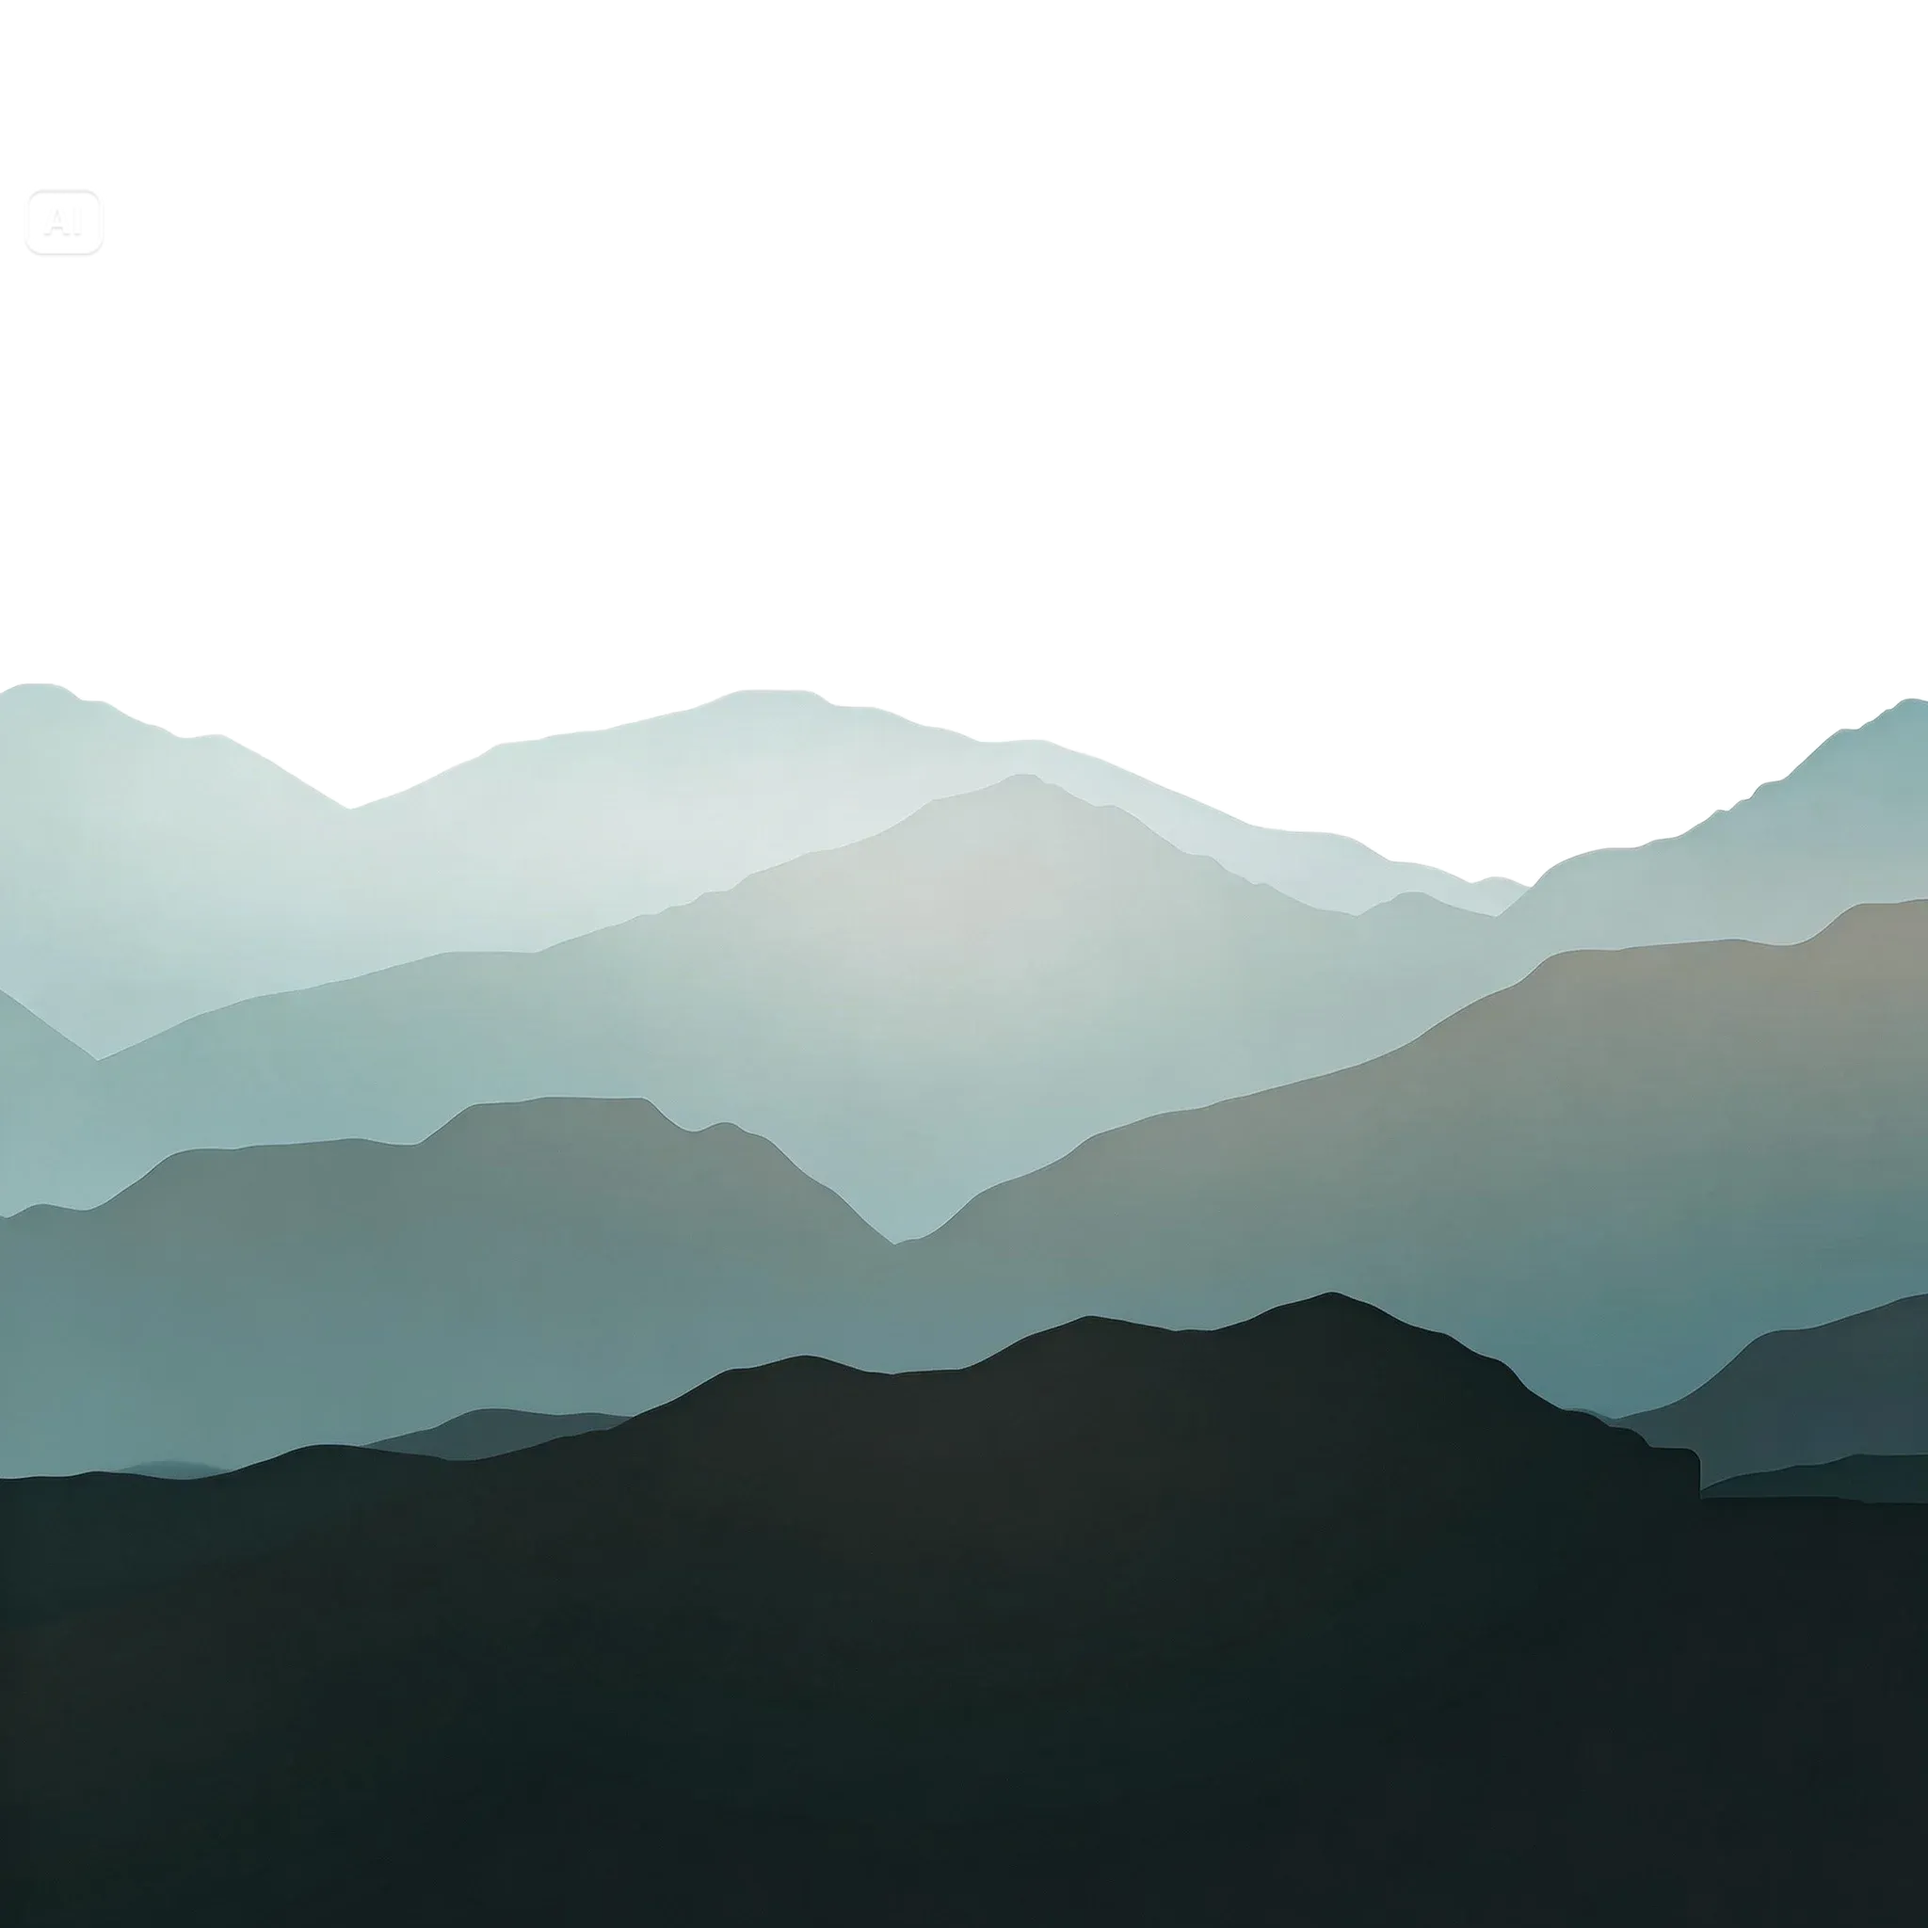
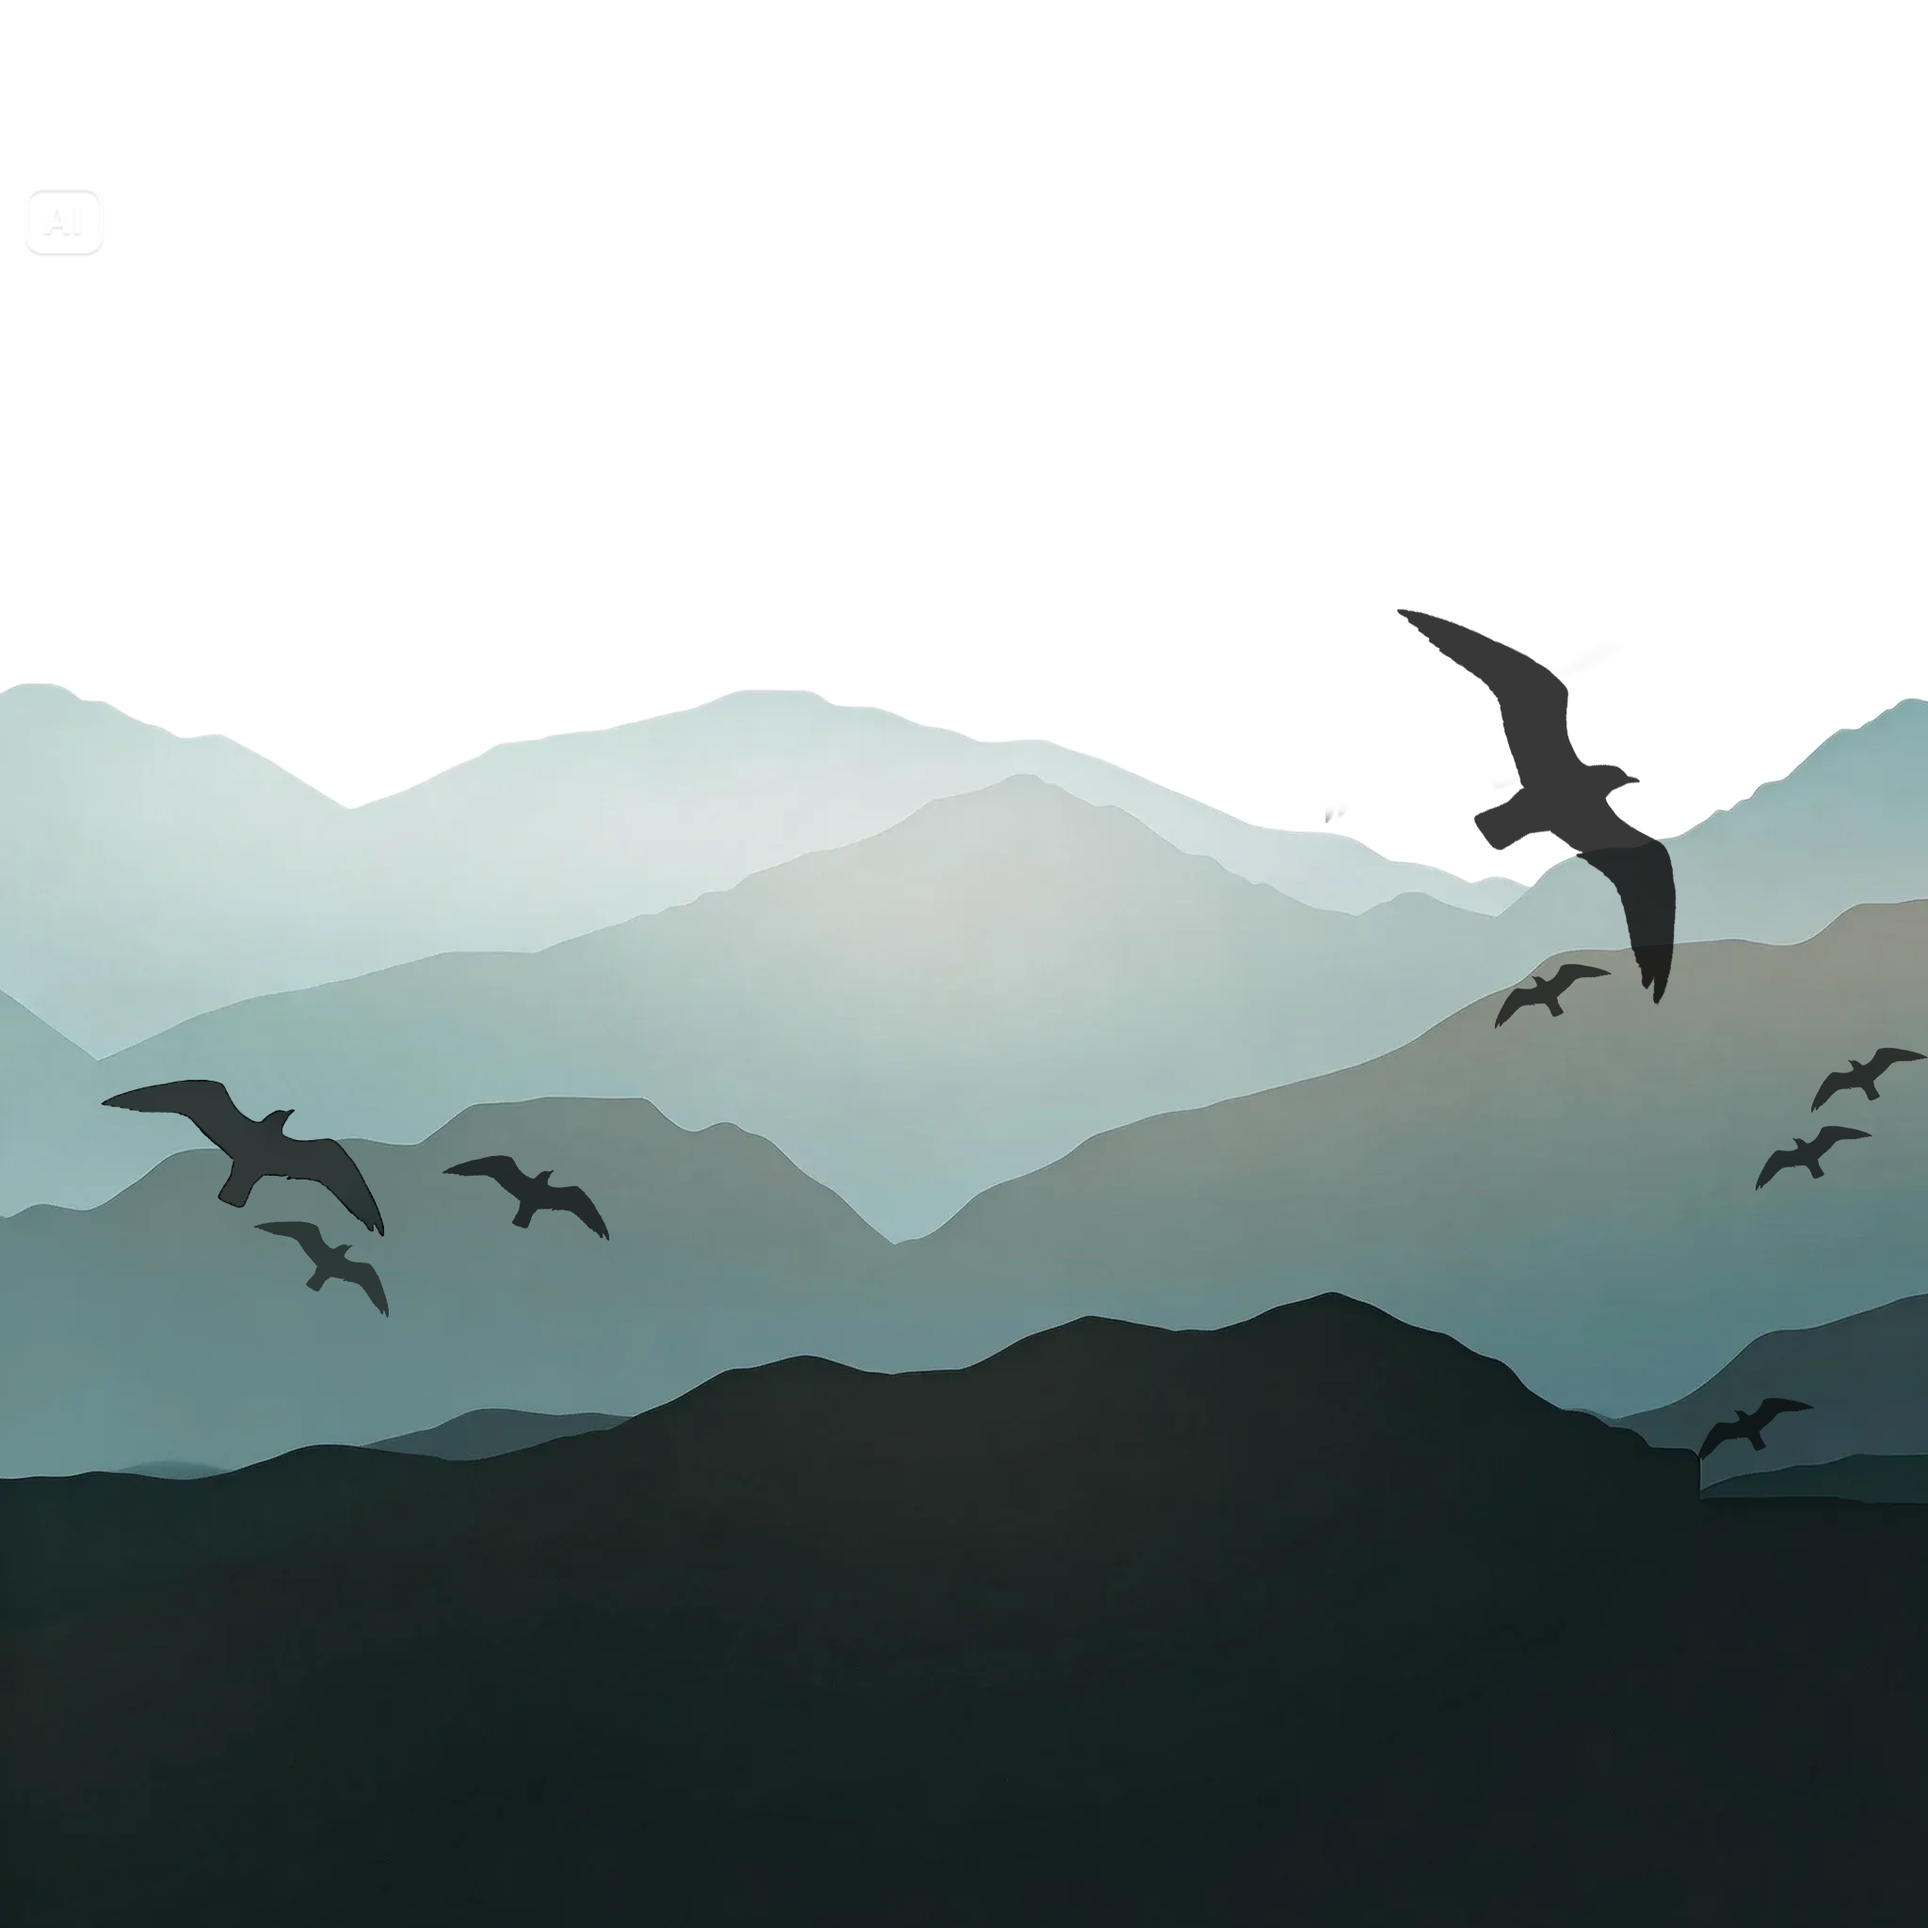
Feat(fetch API): Feedbacks Fetch API from feedbacks is works

diff --git a/app/components/home/Feedback.vue b/app/components/home/Feedback.vue
@@ -63,13 +63,13 @@
               >
                 <div class="flex items-center gap-4 mb-4">
                   <NuxtImg
-                    src="https://i.redd.it/e3zaq33rfn791.jpg"
+                    src="/unatachment-review.jpg"
                     class="w-16 h-16 rounded-lg object-cover"
                   />
 
                   <div class="flex gap-1 text-amber-400">
                     <svg
-                      v-for="val in [1, 1, 1, 1, 1]"
+                      v-for="val in itemFeedbacks[idx].rating"
                       :key="val"
                       xmlns="http://www.w3.org/2000/svg"
                       viewBox="0 0 24 24"
@@ -85,14 +85,35 @@
                   </div>
                 </div>
 
-                <h3 class="text-2xl font-bold text-slate-900 mb-3">
-                  Floyd Miles
+                <h3 class="text-2xl font-bold text-slate-900 mb-1">
+                  {{ slide.subject || slide.email }}
                 </h3>
 
-                <p class="text-slate-600 text-base leading-relaxed line-clamp-3">
-                  Amet minim mollit non deserunt ullamco est sit aliqua dolor do amet
-                  sint. Velit officia consequat duis enim v...
+                <p class="text-sm text-slate-500 mb-3">
+                  {{ slide.email }} • {{ new Date(slide.created_at).toLocaleDateString() }}
                 </p>
+
+                <p class="text-slate-600 text-base leading-relaxed line-clamp-3">
+                  {{ slide.message }}
+                </p>
+
+                <div class="flex gap-1 mt-3">
+                  <svg
+                    v-for="i in 5"
+                    :key="i"
+                    xmlns="http://www.w3.org/2000/svg"
+                    viewBox="0 0 24 24"
+                    :fill="i <= slide.rating ? 'currentColor' : 'none'"
+                    :stroke="i <= slide.rating ? 'currentColor' : '#cbd5e1'"
+                    class="w-5 h-5"
+                  >
+                    <path
+                      d="M10.788 3.21c.448-1.077 1.976-1.077 2.424 0l2.082 5.007 5.404.433c1.164.093 1.636 1.545.749 2.305l-4.117 3.527 1.257 5.273c.271 1.136-.964 2.033-1.96 1.425L12 18.354 7.373 21.18c-.996.608-2.231-.29-1.96-1.425l1.257-5.273-4.117-3.527c-.887-.76-.415-2.212.749-2.305l5.404-.433 2.082-5.007Z"
+                      fill-rule="evenodd"
+                      clip-rule="evenodd"
+                    />
+                  </svg>
+                </div>
               </div>
             </swiper-slide>
           </swiper-container>
@@ -106,16 +127,24 @@
 import { ref, onMounted } from 'vue'
 
 interface FeedbackItem {
-  id: number
-  name: string
+  id: string
+  subject: string
   message: string
   rating: number
-  // Add other fields based on your API response
+  email: string
+  attachment: string | null
+  created_at: string
+  updated_at: string
+  media: unknown[]
+  replay: Record<string, unknown>
 }
 
 interface ApiResponse {
-  data: FeedbackItem[]
-  // Add pagination fields if needed: total, page, etc.
+  status: number
+  message: string
+  data: {
+    feedbacks: FeedbackItem[]
+  }
 }
 
 const itemFeedbacks = ref<FeedbackItem[]>([])
@@ -126,13 +155,19 @@ const fetchFeedbacks = async () => {
   try {
     const config = useRuntimeConfig()
     const baseUrl = config.public.apiBaseUrl
-    const response = await $fetch<ApiResponse>(`${baseUrl}/feedbacks?page=1&per_page=15`, {
+    const response = await $fetch<ApiResponse>(`${baseUrl}/feedbacks`, {
       headers: {
-        'X-CLIENT-HEADER': config.public.apiClientHeader
+        'X-CLIENT-ID': config.public.apiClientHeader
       }
     })
-    console.log(response.data)
-    itemFeedbacks.value = response.data
+
+    const feedbacks =
+      response?.data?.feedbacks ??
+      (response as unknown as { feedbacks?: FeedbackItem[] }).feedbacks ??
+      []
+
+    console.log('feedback response debug: ', feedbacks)
+    itemFeedbacks.value = feedbacks
   } catch (err) {
     error.value = err instanceof Error ? err.message : 'An error occurred'
     console.error('Failed to fetch feedbacks:', err)

diff --git a/nuxt.config.ts b/nuxt.config.ts
@@ -18,7 +18,8 @@ export default defineNuxtConfig({
   },
   runtimeConfig: {
     public: {
-      apiBaseUrl: 'https://localhost:8080/api',
+      // Use HTTP for local backend (or HTTPS with valid cert).
+      apiBaseUrl: 'http://localhost:8081/api',
       apiClientHeader: 'DG-CL-UB-2026021111'
     }
   }
